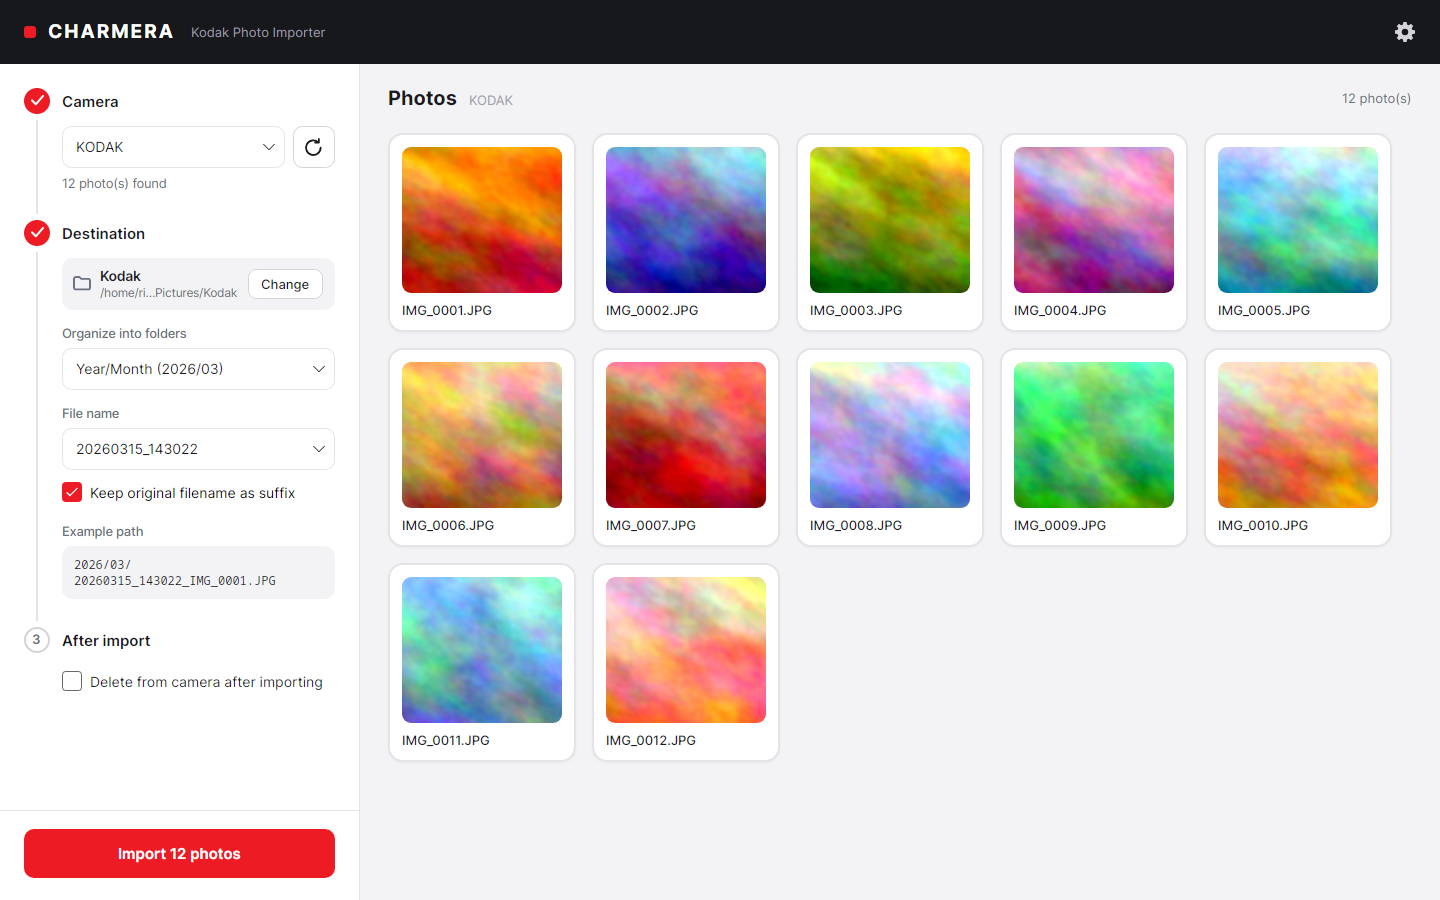
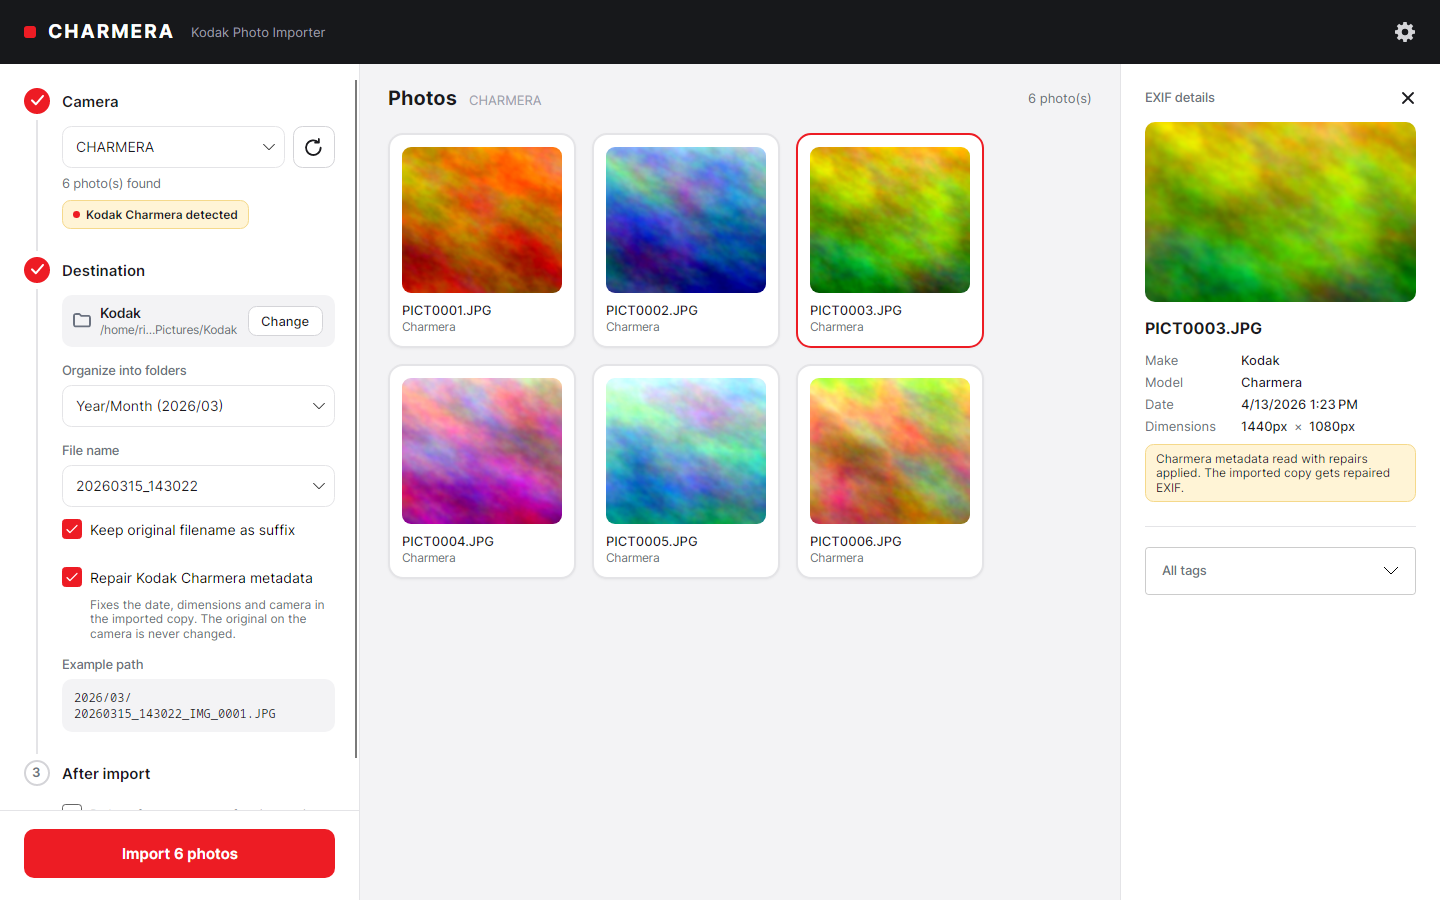
Add an About window and feature the Charmera repair in the README
- About (Settings -> About): what the app does, the Charmera metadata
  repair up front, features, privacy (no telemetry; only the optional
  update check touches the network), links, and credits to the
  research this builds on.
- README: new "Fixes the Kodak Charmera's broken photo metadata"
  section, updated Usage for the step-based UI, corrected the
  "camera writes no EXIF" limitation, noted Charmera videos aren't
  imported yet, refreshed screenshot.

diff --git a/charmera-importer/Views/AboutWindow.axaml.cs b/charmera-importer/Views/AboutWindow.axaml.cs
@@ -1,0 +1,24 @@
+using System;
+using Avalonia.Controls;
+using Avalonia.Interactivity;
+
+namespace charmera_importer.Views;
+
+public partial class AboutWindow : Window
+{
+    public AboutWindow()
+    {
+        InitializeComponent();
+    }
+
+    // Each link button carries its URL in Tag, so the XAML stays the single list of links.
+    private async void OnLinkClicked(object? sender, RoutedEventArgs e)
+    {
+        if (sender is Button { Tag: string url } && Uri.TryCreate(url, UriKind.Absolute, out var uri))
+        {
+            await Launcher.LaunchUriAsync(uri);
+        }
+    }
+
+    private void OnCloseClicked(object? sender, RoutedEventArgs e) => Close();
+}

diff --git a/README.md b/README.md
@@ -11,6 +11,38 @@ device) with automatic EXIF-based organization and duplicate detection.
 
 ![Charmera Importer main window](docs/images/screenshot.png)
 
+## Fixes the Kodak Charmera's broken photo metadata
+
+The [Kodak Charmera](https://en.wikipedia.org/wiki/Kodak_Charmera) keychain camera
+writes **defective EXIF metadata** into every photo. Most photo apps then show the
+wrong date, file the pictures under the day you copied them, or report the wrong
+resolution. Charmera Importer detects Charmera photos automatically and **repairs
+the metadata of each imported copy**:
+
+| Charmera defect | What you'd see elsewhere | What the importer writes |
+|---|---|---|
+| Capture date stored as `2026:03:03:12:16:29` instead of the standard `2026:03:03 12:16:29` | No capture date: photos sorted and filed by the day you copied them | The same date in the standard format, so every app reads it |
+| `ExifImageWidth/Height` of **640×480** on **1440×1080** photos | Wrong resolution in photo libraries | The real size, read from the JPEG frame |
+| Corrupt MakerNote block with invalid offsets | Metadata editors refuse to touch the file | A clean EXIF block; the broken MakerNote is dropped |
+| No camera make/model | "Unknown camera" | `Kodak` / `Charmera`, plus the published lens info (35 mm-equiv, f/2.4) |
+
+- **Only the metadata changes.** The image data is copied byte for byte, so the pixels
+  are identical. This was verified by decoding and comparing them.
+- **The camera is never modified.** Repairs happen on the imported copy; the original
+  file on the card stays untouched.
+- **Automatic detection, and you can turn it off.** Charmera photos are recognized by
+  the Generalplus `GPEncoder` signature the camera embeds, whatever the card is named.
+  The repair is on by default and can be switched off under *Destination*.
+- **Correct folders and names.** Because the real capture date is recovered, photos
+  land in the right year/month folders and get the right date-based file names.
+
+The camera's clock has no time zone, so dates are kept as the local time the camera
+recorded. The defects and the repair approach are documented by
+[jphastings/charmera](https://github.com/jphastings/charmera) and
+[RAIT-09/kodak-charmera-exif-fixer](https://github.com/RAIT-09/kodak-charmera-exif-fixer)
+(both MIT). This app is an independent, dependency-free C# implementation
+(`Services/CharmeraExif.cs`), covered by tests that reproduce each defect.
+
 ## About
 
 Charmera Importer was built to solve a small, specific annoyance: getting
@@ -25,14 +57,13 @@ already been imported before, based on file content, not just the filename.
 
 ## Features
 
-- **Removable device detection** — lists USB mass-storage devices on Linux and
-  Windows so you can pick the right one (no more guessing which mount point is
-  the camera).
+- **Kodak Charmera metadata repair** — see [above](#fixes-the-kodak-charmeras-broken-photo-metadata).
+- **Removable device detection** — detects the camera as soon as it's plugged in (Linux
+  and Windows), and selects it automatically when it's the only one.
 - **Thumbnail browser** — scans the device's `DCIM` folder and shows photos as
   a grid of thumbnails, loaded progressively in the background.
-- **EXIF metadata** — reads camera make/model, capture date, dimensions, and
-  the full EXIF tag dump for each photo (when the camera actually writes it —
-  see [Known limitations](#known-limitations)).
+- **EXIF metadata** — reads camera make/model, capture date and dimensions (taken from
+  the JPEG frame, which can't be wrong), plus the full EXIF tag dump for each photo.
 - **Flexible organization** — choose how imported photos are organized:
   by year/month, year/month/day, by camera model, or a single flat folder.
 - **Configurable file naming** — rename files based on capture date/time, with
@@ -52,7 +83,7 @@ already been imported before, based on file content, not just the filename.
   download's SHA-256 checksum.
 - **Language selection** — the UI auto-detects a supported language from the
   OS locale on first run (currently English and Portuguese), and remembers
-  your choice if you change it from the picker in the header.
+  your choice if you change it in Settings.
 
 ## Installation
 
@@ -113,15 +144,18 @@ page. See [packaging/README.md](packaging/README.md) for how releases are built.
 
 ## Usage
 
-1. Connect your camera (or any USB drive) and select it from the **Dispositivo**
-   dropdown at the top of the window.
-2. Photos found on the device (under its `DCIM` folder, if present) appear as
-   thumbnails, with EXIF details filling in as they're read.
-3. Click a photo to see its EXIF details in the right-hand panel.
-4. Pick a destination folder, a folder organization scheme, and a file-naming
-   preset in the left sidebar.
-5. Click **Importar fotos**. Already-imported photos (matched by content hash,
-   not filename) are automatically skipped and marked as duplicates.
+The left panel walks through the import in three steps:
+
+1. **Camera** — plug the camera in. It's detected automatically (or pick it from the
+   list), and its photos appear as thumbnails. Click one to see its details.
+2. **Destination** — choose a folder, how to organize it and how to name the files. The
+   *Example path* shows where a photo will end up. The Charmera repair lives here too.
+3. **After import** — optionally delete the photos from the camera once they're safely
+   copied.
+
+Then click **Import N photos**. Photos imported before (matched by content, not file
+name) are skipped and marked as duplicates. Language, update checks and *About* are
+under the ⚙ button.
 
 ## Platform support
 
@@ -136,14 +170,16 @@ layout on most Linux desktops.
 
 ## Known limitations
 
-- Some cameras (including the Kodak PixPro this app was built against) don't
-  write make/model/date to EXIF at all — the app falls back to the file's
-  modification date for naming/organizing, and simply hides EXIF fields it
-  doesn't have data for, rather than showing them blank.
+- Cameras that write no capture date at all fall back to the file's modification date
+  for naming and organizing. EXIF fields a camera doesn't provide are hidden, not shown
+  blank.
+- Charmera **videos** (`.avi`) aren't imported yet. The camera also stamps them with a
+  wrong, hard-coded date (2010-06-29).
 - Thumbnails aren't generated for RAW formats (`.cr2`, `.nef`, `.arw`, `.dng`) —
   EXIF is still read for these, just no preview image.
-- Automated tests cover the pure logic (path/naming rules, update version and checksum
-  handling), not the UI or device detection. Those are still verified by hand.
+- Automated tests cover the logic (path/naming rules, Charmera metadata repair and import,
+  update version and checksum handling), not the UI or device detection. Those are
+  still verified by hand.
 - Only English and Portuguese are translated so far — see `Localization/Translations.cs`
   to add another language (it's just a dictionary of strings per language code).
 

diff --git a/CHANGELOG.md b/CHANGELOG.md
@@ -9,6 +9,24 @@ Release notes on GitHub are generated from this file — every release needs a
 
 ## [Unreleased]
 
+### Added
+
+- **Kodak Charmera metadata repair.** Charmera photos (detected by the camera's
+  `GPEncoder` signature) are imported with repaired EXIF: the malformed capture date
+  (`YYYY:MM:DD:HH:MM:SS`) is normalized, the wrong 640×480 EXIF dimensions are replaced
+  with the real size, the corrupt MakerNote is dropped, and Kodak/Charmera is set as the
+  camera. The camera's files are never modified and the image data is copied byte for
+  byte. On by default; can be turned off under Destination.
+- "About" window (Settings → About) with the app's features, privacy notes, links and
+  credits.
+
+### Fixed
+
+- Photo dimensions come from the JPEG frame instead of EXIF tags that can be wrong.
+- Dates in the Charmera's malformed format are now read for every photo, so they're
+  organized and named by the real capture date instead of the file date.
+- Capture dates in the details panel follow the app's language instead of the OS locale.
+
 ## [0.3.0] - 2026-09-18
 
 ### Changed
